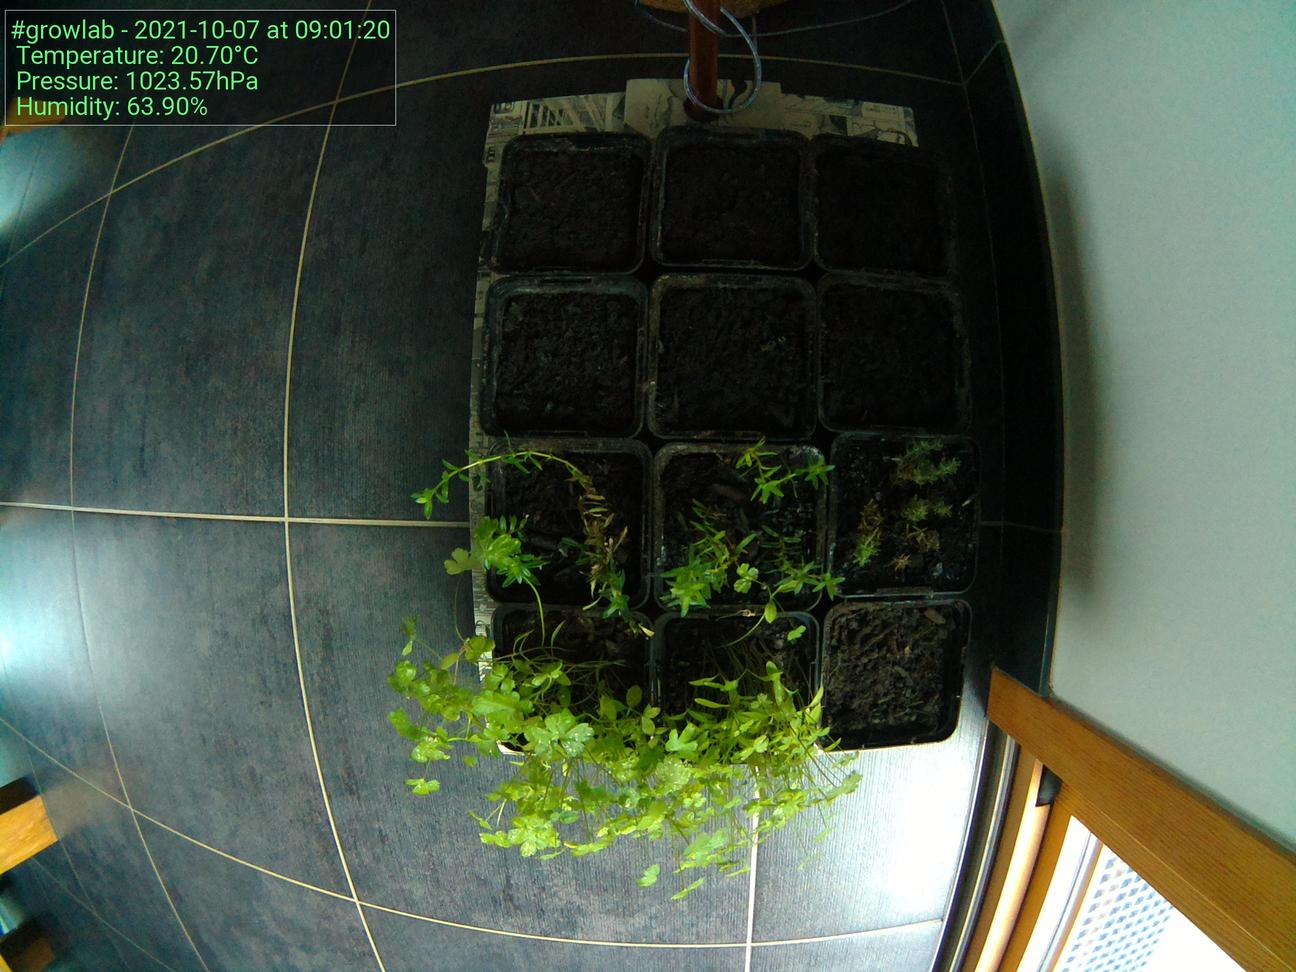
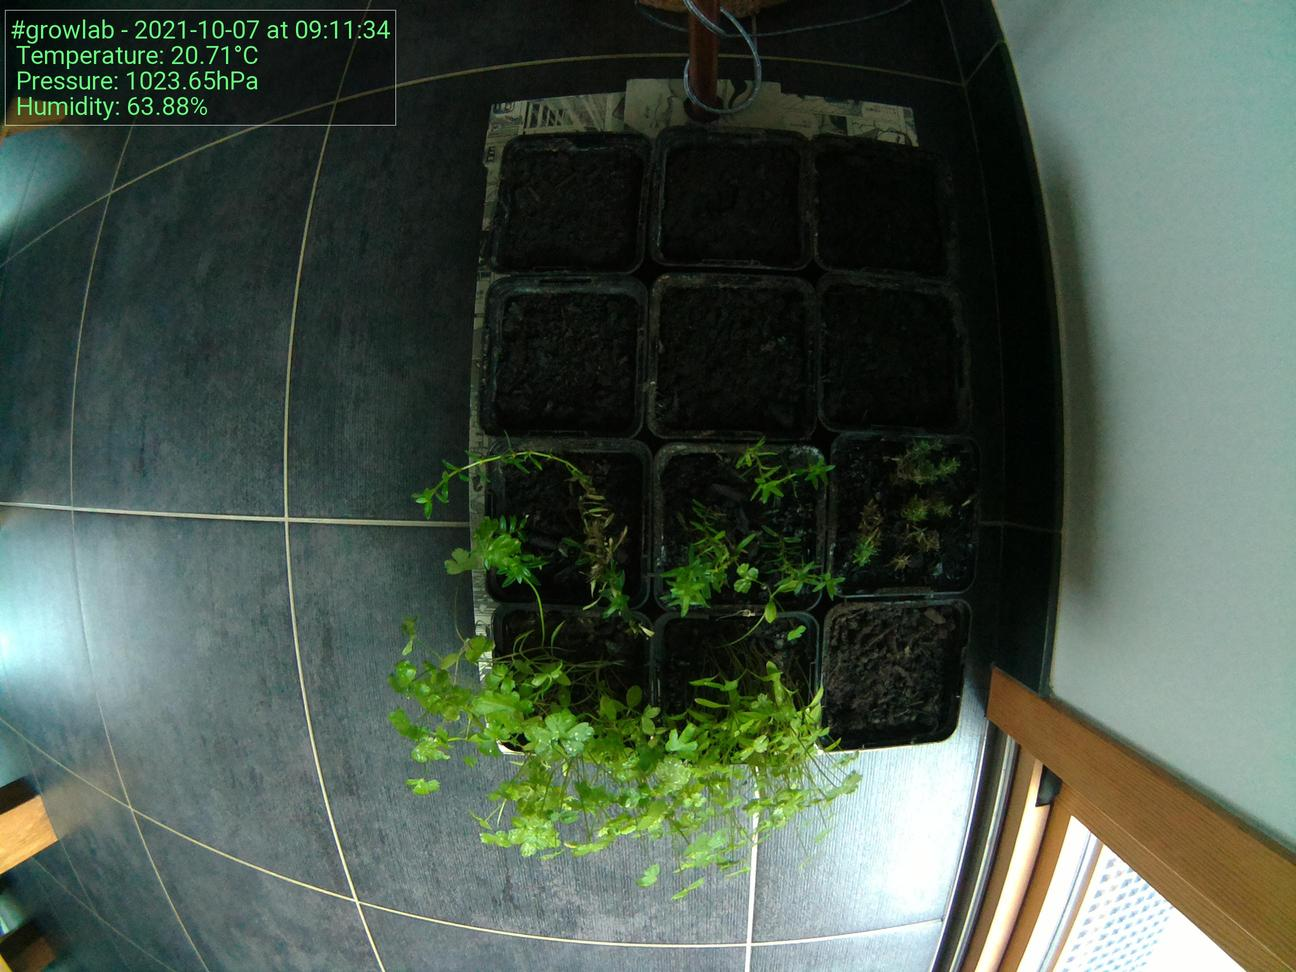
Update images at Thu  7 Oct 09:11:43 CEST 2021

diff --git a/docs/index.html b/docs/index.html
@@ -52,19 +52,19 @@
                             </tr>
                             <tr>
                                 <td>Time</td>
-                                <td>09:01:20</td>
+                                <td>09:11:34</td>
                             </tr>
                             <tr>
                                 <td>Temperature</td>
-                                <td>20.70°C</td>
+                                <td>20.71°C</td>
                             </tr>
                             <tr>
                                 <td>Humidity</td>
-                                <td>63.90%</td>
+                                <td>63.88%</td>
                             </tr>
                             <tr>
                                 <td>Pressure</td>
-                                <td>1023.57hPa</td>
+                                <td>1023.65hPa</td>
                             </tr>
                         </tbody>
                     </table>
@@ -72,7 +72,7 @@
 
                 <h5>Latest image</h5>
                 <div style="width: 85%;">
-                            <img class="figure-img img-fluid rounded" src="./preview.jpg?uid=1633590089.1190777">
+                            <img class="figure-img img-fluid rounded" src="./preview.jpg?uid=1633590703.3475244">
                 </div>
             </div>
         </div>
